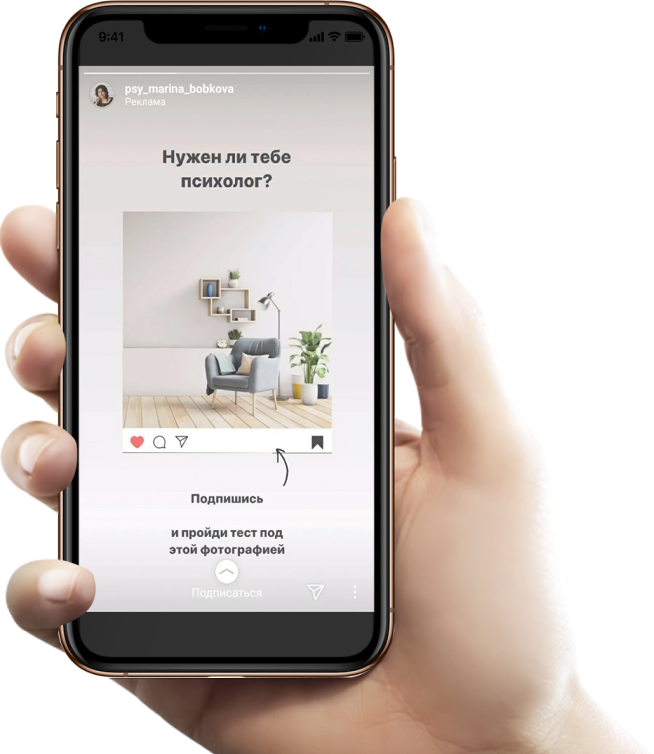
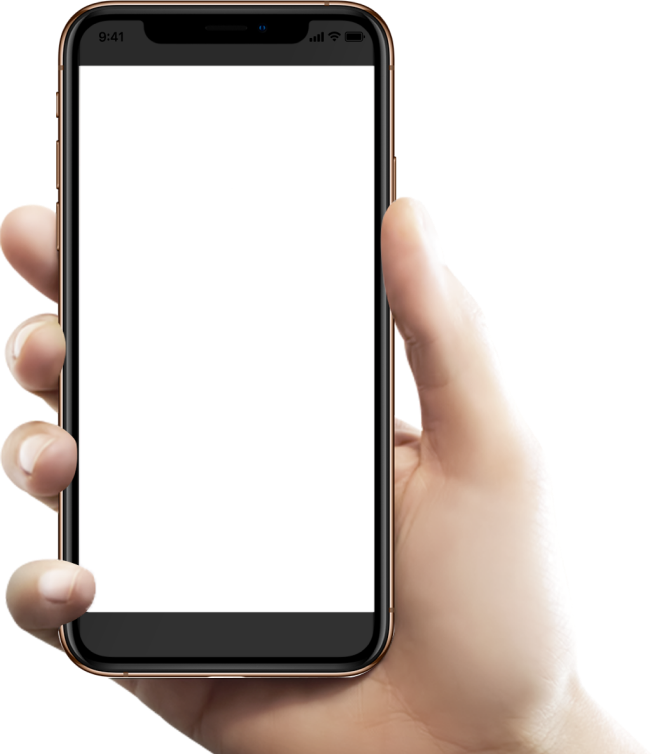
add

Changed region(s): [[0.1223, 0.061, 0.581, 0.6406], [0.1223, 0.7016, 0.581, 0.8236], [0.2752, 0.6406, 0.3976, 0.6711]]

diff --git a/apartments/about.html b/apartments/about.html
@@ -388,17 +388,27 @@
         <div class="row pt-3 pt-lg-0">
           <div class="col-lg-9">
             <div class="links_block">
-              <button class="links_item">Креативные видео-обзоры</button>
-              <button class="links_item active">Таргетированный поиск в соц сетях</button>
-              <button class="links_item">3D-визуализации</button>
-              <button class="links_item">Собственный сайт для вашего объекта</button>
-              <button class="links_item">Более 15 каналов поиска покупателей</button>
+              <button class="links_item item_one">Креативные видео-обзоры</button>
+              <button class="links_item item_two active">Таргетированный поиск в соц сетях</button>
+              <button class="links_item item_three">3D-визуализации</button>
+              <button class="links_item item_four">Собственный сайт для вашего объекта</button>
+              <button class="links_item item_five">Более 15 каналов поиска покупателей</button>
             </div>
           </div>
         </div>
       </div>
-      <img class="img-fluid phone_hand" src="img/phone_hand.png" alt="телефон в руке">
+      <div class="box_img_slider">
+        <img class="img-fluid phone_hand" src="img/phone_hand.png" alt="телефон в руке">
+        <div class="content_slider_img">
+          <img class="img-fluid slider_inner_img img_1" src="img/inner_slider_img.png" alt="картинка">
+          <img class="img-fluid slider_inner_img img_2" src="img/inner_slider_img.png" alt="картинка">
+          <img class="img-fluid slider_inner_img img_3" src="img/inner_slider_img.png" alt="картинка">
+          <img class="img-fluid slider_inner_img img_4" src="img/inner_slider_img.png" alt="картинка">
+          <img class="img-fluid slider_inner_img img_5" src="img/inner_slider_img.png" alt="картинка">
+        </div>
+      </div>
     </section>
+    
     <section class="steps">
       <div class="container">
         <div class="title_text_works">
@@ -866,12 +876,12 @@
   </div>
   
   <script src="js/bootstrap.min.js"></script>
-  <script src="js/swiper-bundle.js"></script>
   <script src="js/main.js"></script>
-  <script src="https://code.jquery.com/jquery-2.2.0.min.js" type="text/javascript"></script>
+  <script src="https://code.jquery.com/jquery-3.5.0.min.js" type="text/javascript"></script>
   <script src="js/slick.js" type="text/javascript" charset="utf-8"></script>
   <script src="js/specialist_slider.js"></script>
   <script src="js/mobile_slider.js"></script>
+  <script src="js/links_slider.js"></script>
   <script type="text/javascript">
     $(document).on('ready', function() {
       $(".lazy").slick({
@@ -888,16 +898,11 @@
     });
   </script>
   <script>
-    $('.links_item').click(function(){
-      $('.links_item').removeClass('active');
-      $(this).addClass('active');
-    });
     $('.btn_menu').click(function () {
       $('.mobile_menu').toggleClass('active');
       $('.over').toggleClass('overflow-hidden');
     });
   </script>
-
 </body>
 
 </html>

diff --git a/apartments/css/style.css b/apartments/css/style.css
@@ -112,7 +112,7 @@ input[type=range]:focus{outline:none}
 .links_item{display:flex;align-items:center;padding:36px 57px;text-decoration:none;color:#323232;font-size:22px;line-height:26px;opacity:0.4;transition:all .3s;border-radius:15px;border:none;background-color:transparent;width:100%;}
 .links_item:hover{opacity:1;background-color:#fff;color:#323232;}
 .links_item.active{opacity:1;background-color:#fff;color:#323232;box-shadow: 0px 20px 70px rgba(69, 34, 14, 0.05);transition:all .3s;}
-.phone_hand{position:absolute;right:10%;bottom:0;}
+.box_img_slider{position:absolute;right:10%;bottom:0;}
 .steps{width:100%;position:relative;padding:138px 0 154px;background-image:url(../img/bg_steps.png);background-repeat:no-repeat;background-size:cover;background-position:center center;}
 .tabs_body{padding:60px 0 0;}
 .nav-tabs .nav-link, .nav-tabs{border:none;}
@@ -173,6 +173,9 @@ input[type=range]:focus{outline:none}
 .name_consult_min_text{font-size:14px;line-height:22px;color:#323232;font-family:'TTnorms-med';}
 .mobile_menu{display:flex;}
 .mobile_container{display:flex;}
+.content_slider_img{position:absolute;left:79px;top:67px;width:296px;height:548px;overflow:hidden;}
+.slider_inner_img{position:absolute;left:0;top:0;opacity:0;transform:translateX(100%);transition:all .5s;}
+.slider_inner_img.active{opacity:1;transform:translateX(0);transition-delay:.2s;}
 
 .footer{background:linear-gradient(to top, #282728, #4F4842);padding:110px 0 70px;color:#fff}
 .footer h3{font-size:38px;font-family: 'Optima';}
@@ -246,7 +249,7 @@ input[type=range]:focus{outline:none}
   .brown_item_card{padding:30px 20px;}
   .white_tite_item{padding-top:15px;font-size:16px;line-height:22px;}
   .white_text_item{line-height:20px;font-family:'TTnorms-light';}
-  .phone_hand{position:relative;margin:auto;right:0;left:0;bottom:0;padding-top:30px;}
+  .box_img_slider{position:relative;margin:auto;right:0;left:0;bottom:0;padding-top:30px;}
   .works{padding:60px 0 0;overflow:hidden;text-align:center;}
   .title_block_works{font-size:24px;line-height:30px;text-align:left;}
   .links_block{background:transparent;backdrop-filter:none;box-shadow:none;position:relative;}
@@ -306,6 +309,7 @@ input[type=range]:focus{outline:none}
   .call{text-align:center !important;}
   header .call .phone{margin-top:20px;font-size:20px;}
   header .call .callme{font-size:18px;margin-top:15px;}
+  .content_slider_img{left:238px;}
 }
 
 @media(max-width:756px){

diff --git a/apartments/js/links_slider.js b/apartments/js/links_slider.js
@@ -1,0 +1,20 @@
+$('.links_item').click(function(){
+      $('.links_item').removeClass('active');
+      $('.slider_inner_img').removeClass('active');
+      $(this).addClass('active');
+    });
+    $('.item_one').click(function(){
+      $('.img_1').addClass('active');
+    });
+    $('.item_two').click(function(){
+      $('.img_2').addClass('active');
+    });
+    $('.item_three').click(function(){
+      $('.img_3').addClass('active');
+    });
+    $('.item_four').click(function(){
+      $('.img_4').addClass('active');
+    });
+    $('.item_five').click(function(){
+      $('.img_5').addClass('active');
+    });
